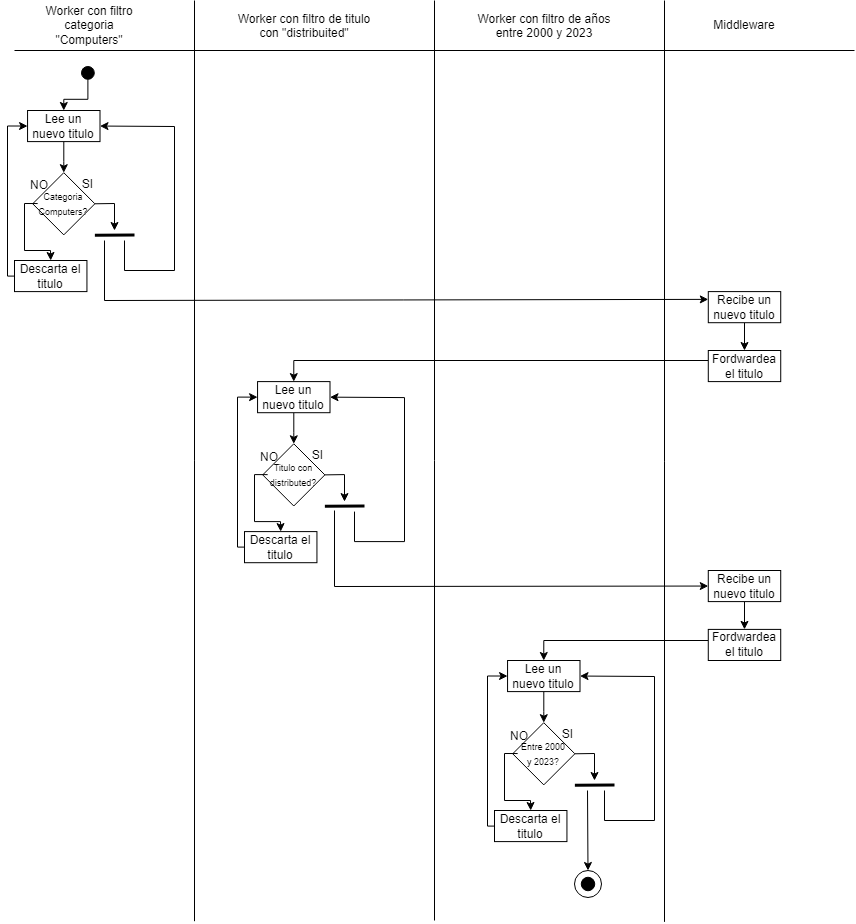
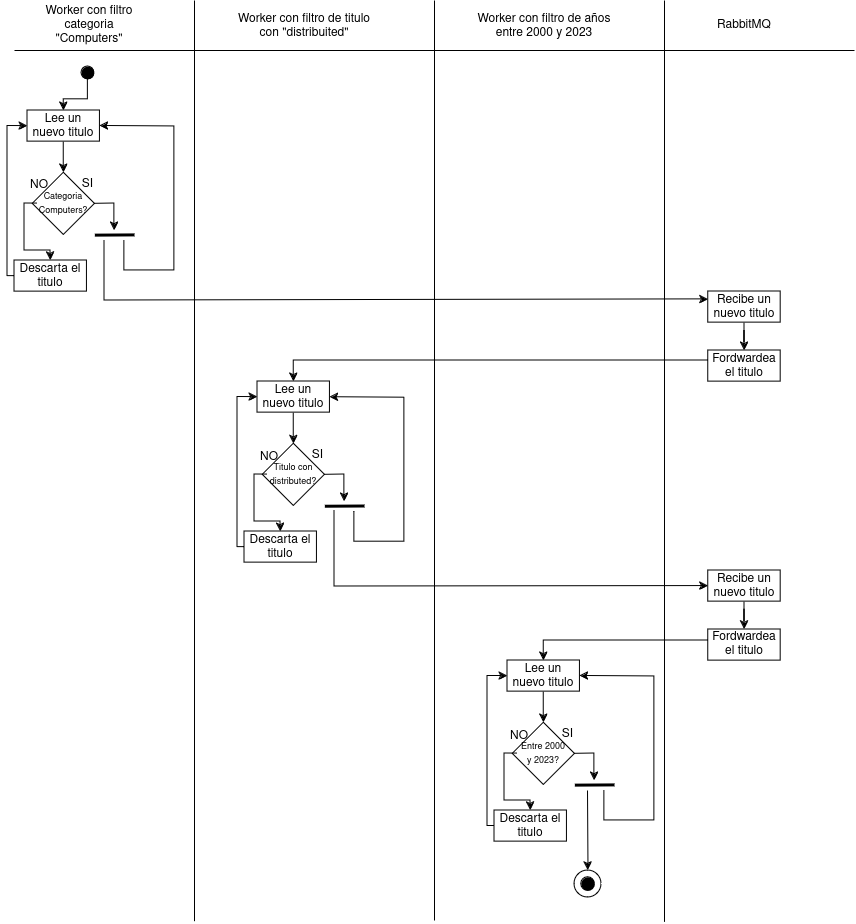
Add activity diagramas for the eof logics

diff --git a/Informe.md b/Informe.md
@@ -14,9 +14,9 @@ También hemos decidido que en el sistema las consultas se harán _X (secuencial
 
 ## <span style="color:#9669f0"> Sistema completo </span>
 En la siguiente imagen se puede ver como sera la estructura del sistema completo.  
-<p align="center"><img src="./images/SistemaCompletoFinal.png" /> </p>
+<p align="center"><img src="./images/SistemaCompletoRentrega.png" /> </p>
 
-Empezando por el cliente y el server, el primero se conecta mediante TCP a nuestro server el cual tiene como funcion recibir los datasets y mandarle cada batch a al query coordinator. Este se encargara de parsear cada batch para cada pipeline ya que estos usan distintas columnas del dataset. El query coordinator manda los datasets por un exchange con topico en donde cada cola tiene un distinto topico. Ademas, Query Coordinator se encarga de recibir por distintas colas los diferentes resultados de cada pipeline. 
+Empezando por el cliente y el server, el primero se conecta mediante TCP a nuestro server el cual tiene como funcion recibir los datasets y mandarle cada batch a al query coordinator. Este se encargara de parsear cada batch para cada pipeline ya que estos usan distintas columnas del dataset. El query coordinator manda los datasets por diferentes queues,donde cada una va a una query distinta. Ademas, Query Coordinator se encarga de recibir por distintas colas los diferentes resultados de cada pipeline. 
 <p align="center"><img src="./images/InicioSist.png" /> </p>
 
 Cada pipeline se encarga de conseguir lo resultados de una query en especifico y eso lo hacen usando diferentes tipos de workers que se encargan de aplicarle un simple tipo de "job" a cada dato recibido.  
@@ -32,7 +32,7 @@ Como en la query anterior, solo se reciben los datos de los titulos los cuale so
 <span style="color:#09ff05">**Query 3 y Query 5**</span>: _Títulos y autores de libros publicados en los 90' con al menos 500 reseñas._ _Títulos en categoría "Fiction" cuyo sentimiento de reseña promedio esté en
 el percentil 90 más alto._  
 Para resolver estas queries se necesitan los datos de ambas tablas. Empezando por Q3, primero con un pool de workers se hace el primer filtro de decada del 90' y desde ahi se manda los titulos filtrados al hasher de titulos. Este hasher le indicara a los titulos a que worker deben ir, de esta manera hay un solo worker destinado a contar reseñas de un grupo acotado de titulos. Lo mismo sucedera con los titulos de las reseñas. De esta manera, estos workers que tienen como proposito contar las reseñas de cada titulo, recibiran titulos y sus respectivas reseñas.  
-Siguiendo por Q5, es la misma logica. A los titulos enviados por el Query Coordinator que vienen desde el exchange, se los pasa por un pool de workers de filtro de categoria Fiction y luego son enviados al hasher de titulos. Desde ahi son enviados a su respectivo worker en donde tambien llegaran las reseñas de ese titulo, las cuales ya pasaron por un pool de workers que les calcularon el sentimiento. En la ultima etapa, para cada titulo se le genera su promedio de sentimiento de reseña y una vez que se acumularon todos, se envian al calculador de percentil el cual decidira cuales son los titulos que estan por encima del percentil 90.
+Siguiendo por Q5, es la misma logica. A los titulos enviados por el Query Coordinator, se los pasa por un pool de workers de filtro de categoria Fiction y luego son enviados al hasher de titulos. Desde ahi son enviados a su respectivo worker en donde tambien llegaran las reseñas de ese titulo, las cuales ya pasaron por un pool de workers que les calcularon el sentimiento. En la ultima etapa, para cada titulo se le genera su promedio de sentimiento de reseña y una vez que se acumularon todos, se envian al calculador de percentil el cual decidira cuales son los titulos que estan por encima del percentil 90.
 Cabe aclarar, que cada uno de esos workers a los que les llegan reseñas y titulos, no leeran reseñas hasta que le termine de llegar todos los titulos.
 <p align="center"><img src="./images/Q5Q3SistCompleto.png" /> </p>
 
@@ -91,7 +91,7 @@ El worker contador cuenta las décadas distintas en las que un autor ha publicad
 
 #### <span style="color:#09ff05">**Query 3**</span>
 <p align="center"><img src="./images/DiagramaActividadesQ3.png" /> </p>
-Se filtra primero por la década de los 90 con el mismo filtro que la query 1, luego se cuenta las reseñas de cada uno de estos títulos filtrados y se acumulan para luego ver al final si tienen más de 500 reseñas.
+Se filtra primero por la década de los 90 con el mismo filtro que la query 1, se pasan estos títulos filtrados al hasheador de títulos cuyo propósito es distribuir de manera equitativa los títulos entre los workers del siguiente filtro, luego se cuenta las reseñas de cada uno de estos títulos filtrados y se acumulan para luego ver al final si tienen más de 500 reseñas.
 
 #### <span style="color:#09ff05">**Query 4**</span>
 <p align="center"><img src="./images/DiagramaActividadesQ4.png" /> </p>
@@ -99,10 +99,22 @@ Esta query reutiliza los resultados de la query 3 para calcular el promedio de r
 
 #### <span style="color:#09ff05">**Query 5**</span>
 <p align="center"><img src="./images/DiagramaActividadesQ5.png" /> </p>
+Filtramos por categoría "Fiction", se calcula el sentimiento de las reseñas y se pasa al hasher de títulos para que mande los títulos a los workers correspondientes. Luego se calcula el promedio de sentimiento de cada título y se acumulan los resultados para finalmente calcular el percentil 90 y devolver los títulos que cumplen con la condición.
 
-#### <span style="color:#09ff05">**Manejo de EOF entre workers**</span>
-<p align="center"><img src="./images/DiagramaActividadesEOF.drawio.png" /> </p>
-Un worker puede ser líder o no lider, si no lo es simplemente recibe mensajes hasta que este sea un EOF y en ese caso lo manda al líder. El líder hace lo mismo pero en caso de recibir un EOF espera que todos los workers le manden un EOF para poder mandar el EOF al siguiente worker.
+#### <span style="color:#09ff05">**Manejo de EOF entre workers de filtros**</span>
+<p align="center"><img src="./images/DiagramaActividadesEOFFilters.drawio.png" /> </p>
+Un worker puede ser líder o no lider, si no lo es simplemente recibe mensajes hasta que este sea un EOF y en ese caso lo manda al líder. El líder hace lo mismo pero en caso de recibir un EOF espera que todos los workers le manden un EOF para poder mandar los EOFs a la siguiente etapa de workers.  
+Una vez que los workes mandan el EOF a su lider, esperan por el mensaje OK del lider para poder comenzar con la siguiente iteracion. Este mensaje OK lo manda el lider una vez que le llegaron todos los EOFs. De esta manera coordinamos que todo el grupo de workers en una etapa se coordinen a la hora de mandar los EOFs y comenzar con la siguiente iteracion, la cual estara trabajando con otro cliente. Este tipo de coordinacion se puede ver en etapas como las de la query 1, las etapas de calcular sentimiento y filtro de categoria de Fiction en la query 3, y por ultimo la etapa de filtro de decada 90 en la query 3.  
+
+#### <span style="color:#09ff05">**Manejo de EOF entre workers con acumuladores**</span>
+<p align="center"><img src="./images/DiagramaActividadesEOFAcumuladores.drawio.png" /> </p>
+Hay otros casos en donde los workers de una etapa no necesitan sincronizar sus EOFs, pero si deben sincronizarse para saber cuando empezar su siguiente iteracion. Estos son los casos de las queries 4, 2 y las ultimas etapas de las queries 3 y 5.  
+Lo que sucede en este caso es que cada workere no acumulador envia su EOF al worker acumulador. Este tiene informacion de cuantos workers hay en la etapa anterior, entonces cuando recibe esa cantidad de EOFs este envia los mensajes OK a los workers anteriores. Estos, que se habian quedado esperando luego de mandar el EOF al acumulador, entienden que pueden seguir con la nueva iteracion.
+
+## <span style="color:#09ff05">**Protocolo de comunicacion y serialiazacion**</span>
+El protocolo en cuanto a la comunicación cliente-servidor es muy simple. Se usa un header que siempre tendra un largo de 4 bytes. En este header se informa la longitud del mensaje. Entonces si tenemos el mensaje "Hola!", el header sera "0005" y el mensaje completo que se envia por el socket sera "0005Hola!". Para evitar un short-write, se envia el mensaje y se va contando cuantos bytes se escribieron. Si no se escribieron todos los bytes, se sigue enviado desde el byte que no se pudo escribir en el socket. Del lado del lector, este sabe que siempre primero tiene que leer 4 bytes, asi consigue el header y sabe cuantos bytes mas tiene que leer para conseguir el mensaje completo. No para de hacer intentos de leer el socket hasta que no se haya leido la cantidad de bytes indicada por el header.  
+Además, para poder complementar el protocolo y evitar manejar strings, se serializa todo lo que se envía y encapsula la responsabilidad del encoding y decoding en el servidor con una estructura `Message` que tiene un contenido y un _stop state_ de forma que si ya está terminado el mensaje, ya no se pueda escribir más (útil en el caso de esperar un EOF para saber cuando el mensaje posee todos los resultados).  
+En cuanto a la serialización, se implementa una librería propia de la misma para poder serializar y deseralizar mensajes acorde a las necesidades de los datos, por ejemplo hay casos en los que necesitaremos mandar batches completos de datos y otros en los que solo necesitaremos mandar un dato en particular, en su mayoría manejándonos con diccionarios para poder separar los datos de manera clara en un formato {key: value}. Para ello utilizamos separadores custom que definen si se trata del final de un dato en particular o de una tanda de datos. Esta serialización soporta distintos formatos como ser un set, lista, diccionario y demás, y se encarga de la serialización de manera consistente usando como convención los separadores definidos como constantes que se importan a lo largo del sistema para poder mantener los datos limpios acorde a este protocolo.
 
 ## <span style="color:#9669f0"> Resultados </span>
 
